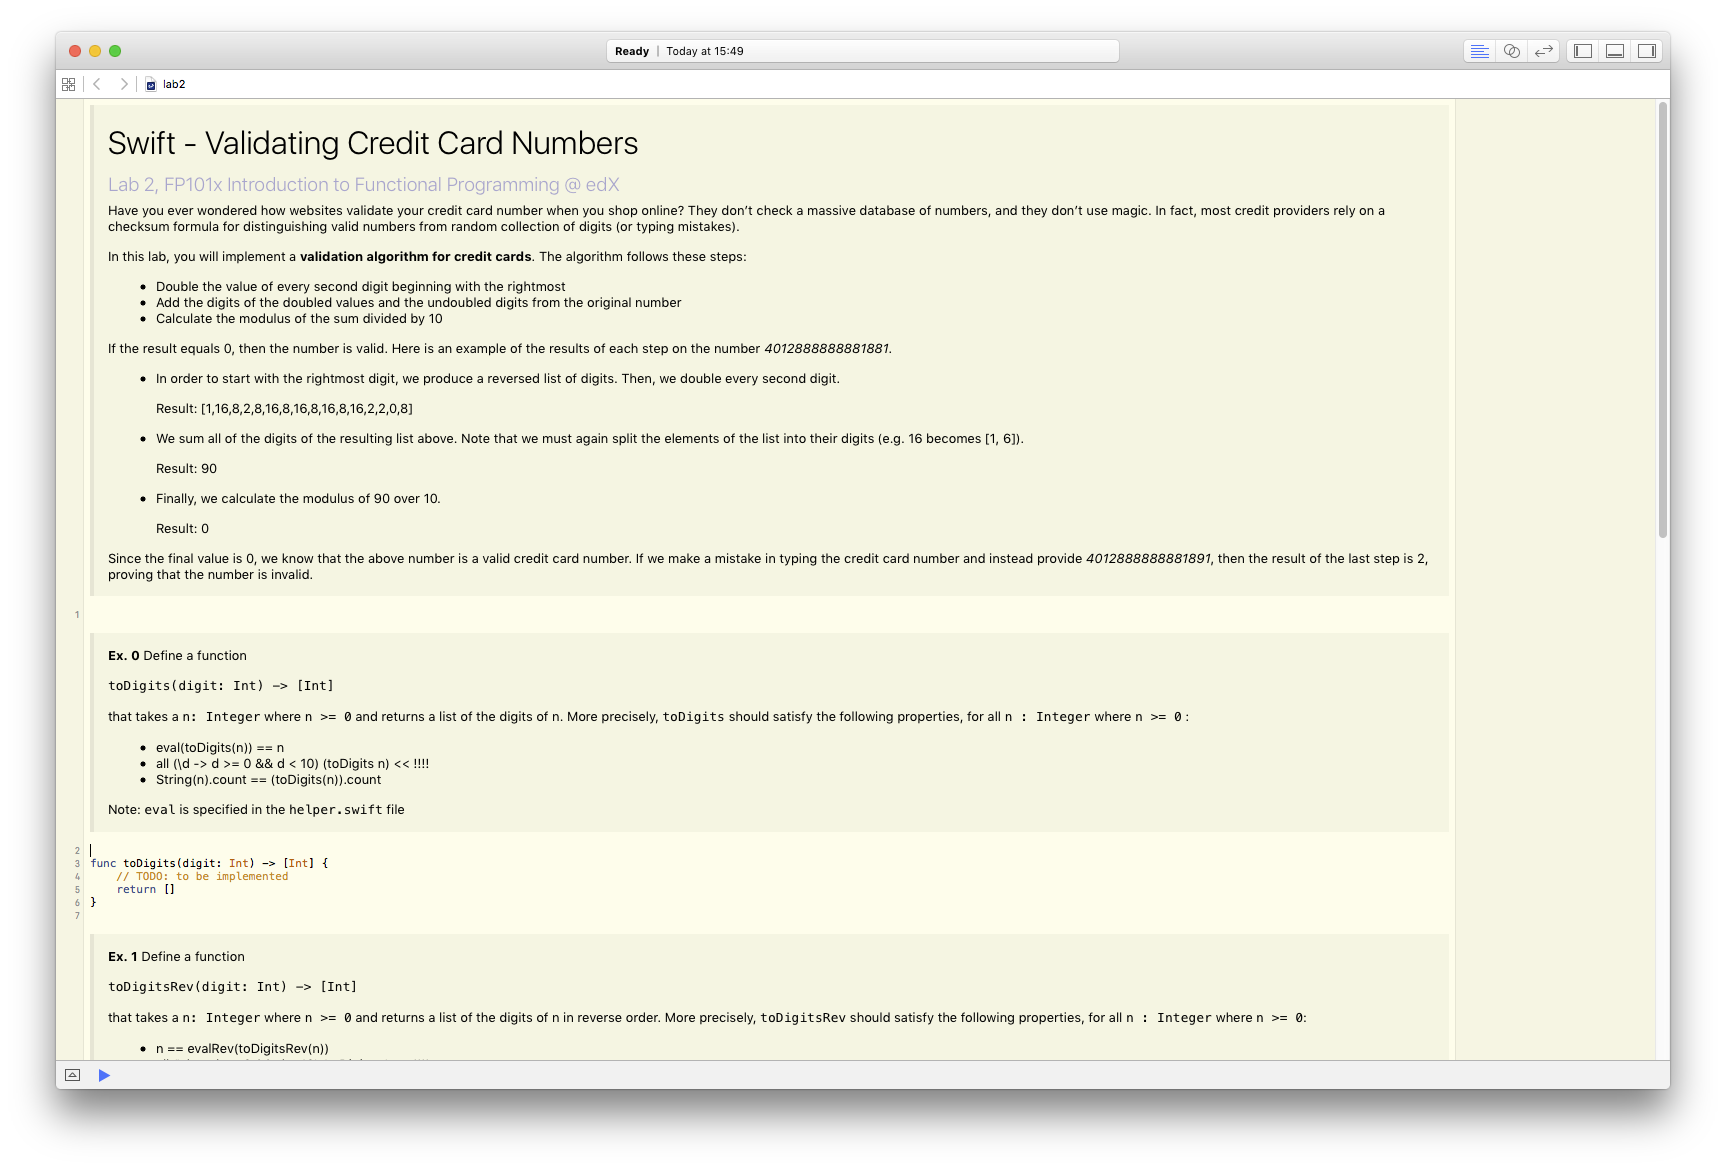
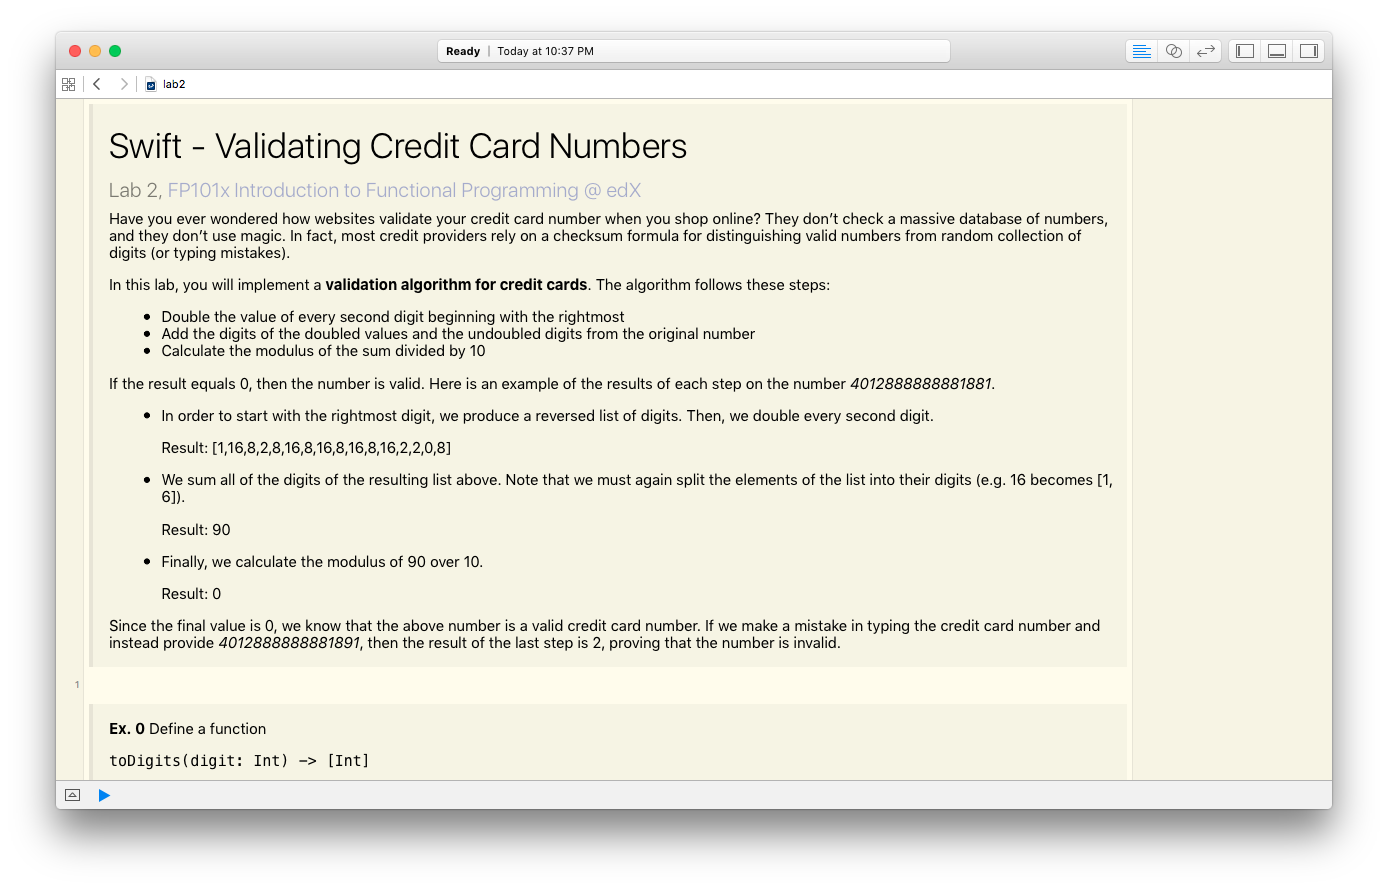
update fp101 with all function

Changed region(s): [[0.031, 0.0304, 0.9914, 0.9719]]

diff --git a/source/blog/2015-11-11-fp101x-swift/lab2.playground/Contents.swift b/source/blog/2015-11-11-fp101x-swift/lab2.playground/Contents.swift
@@ -1,6 +1,6 @@
 /*:
 # Swift - Validating Credit Card Numbers
-### [Lab 2, FP101x Introduction to Functional Programming @ edX](https://www.edx.org/course/introduction-functional-programming-delftx-fp101x-0)
+### Lab 2, [FP101x Introduction to Functional Programming @ edX](https://www.edx.org/course/introduction-functional-programming-delftx-fp101x-0)
 Have you ever wondered how websites validate your credit card number when you shop online? They don’t check a massive database of numbers, and they don’t use magic. In fact, most credit providers rely on a checksum formula for distinguishing valid numbers from random collection of digits (or typing mistakes).
 
 In this lab, you will implement a __validation algorithm for credit cards__. The algorithm follows these steps:
@@ -38,15 +38,17 @@ Define a function
 that takes a `n: Integer` where `n >= 0` and returns a list of the digits of n. More precisely, `toDigits` should satisfy the following properties, for all `n : Integer`  where `n >= 0` :
 
 * eval(toDigits(n)) == n
+* toDigits(n).all { d in d >= 0 && d < 10 }
 * String(n).count == (toDigits(n)).count
 
-Note: `eval` is specified in the `helper.swift` file
+Note: `eval` and `all` are specified in the `helper.swift` file
 */
 
 func toDigits(digit: Int) -> [Int] {
     // TODO: to be implemented
     return []
 }
+
 
 /*:
 __Ex. 1__
@@ -57,9 +59,10 @@ Define a function
 that takes a `n: Integer` where `n >= 0` and returns a list of the digits of n in reverse order. More precisely, `toDigitsRev` should satisfy the following properties, for all `n : Integer`  where `n >= 0`:
 
 * n == evalRev(toDigitsRev(n))
+* toDigits(n).all { d in d >= 0 && d < 10 }
 * String(n).count == (toDigitsRev(n)).count
 
-Note: `evalRev` is specified in the `helper.swift` file
+Note: `evalRev` and `all` are specified in the `helper.swift` file
 */
 
 func toDigitsRev(digit: Int) -> [Int] {
@@ -131,4 +134,3 @@ func numValid(digits: [Int]) -> Int {
         .filter(isValid)
         .count
 }
-

diff --git a/source/blog/2015-11-11-fp101x-swift/lab2.playground/Sources/helpers.swift b/source/blog/2015-11-11-fp101x-swift/lab2.playground/Sources/helpers.swift
@@ -136,3 +136,13 @@ func evalRev(digits: [Int]) -> Int {
     }
     return result
 }
+
+extension SequenceType {
+    public func all(@noescape validateElement: (Self.Generator.Element) -> Bool) -> Bool {
+        return self.reduce(true) { initial, element in
+            return initial && validateElement(element)
+        }
+    }
+}
+
+
